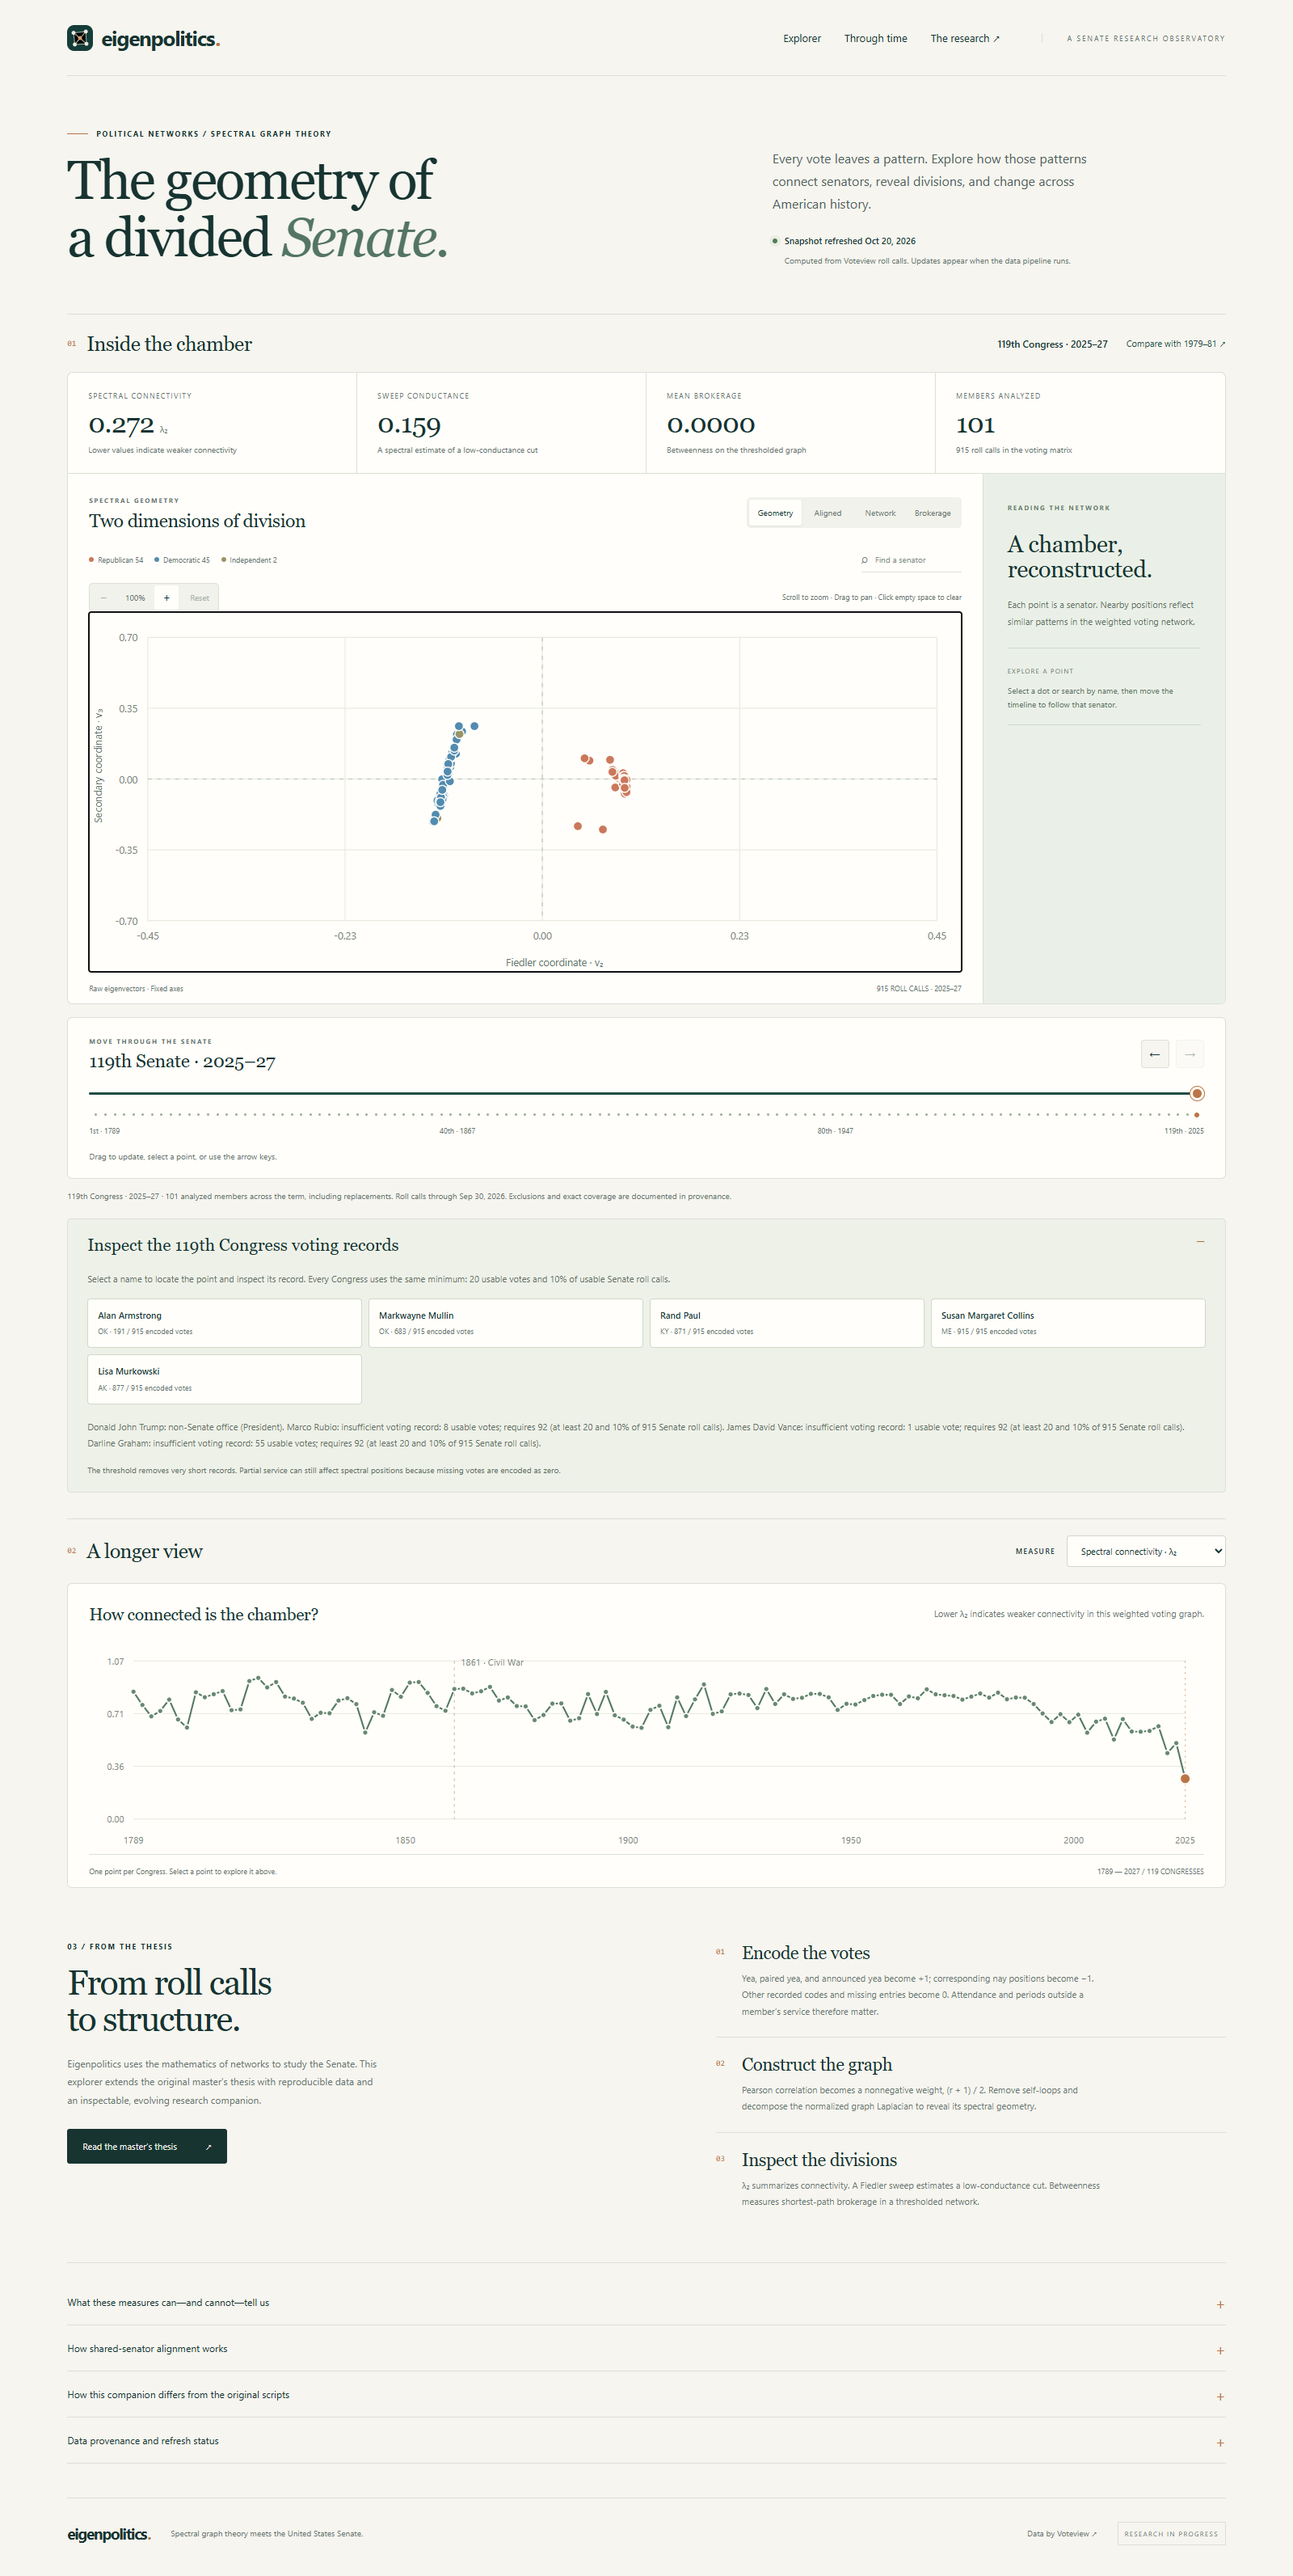
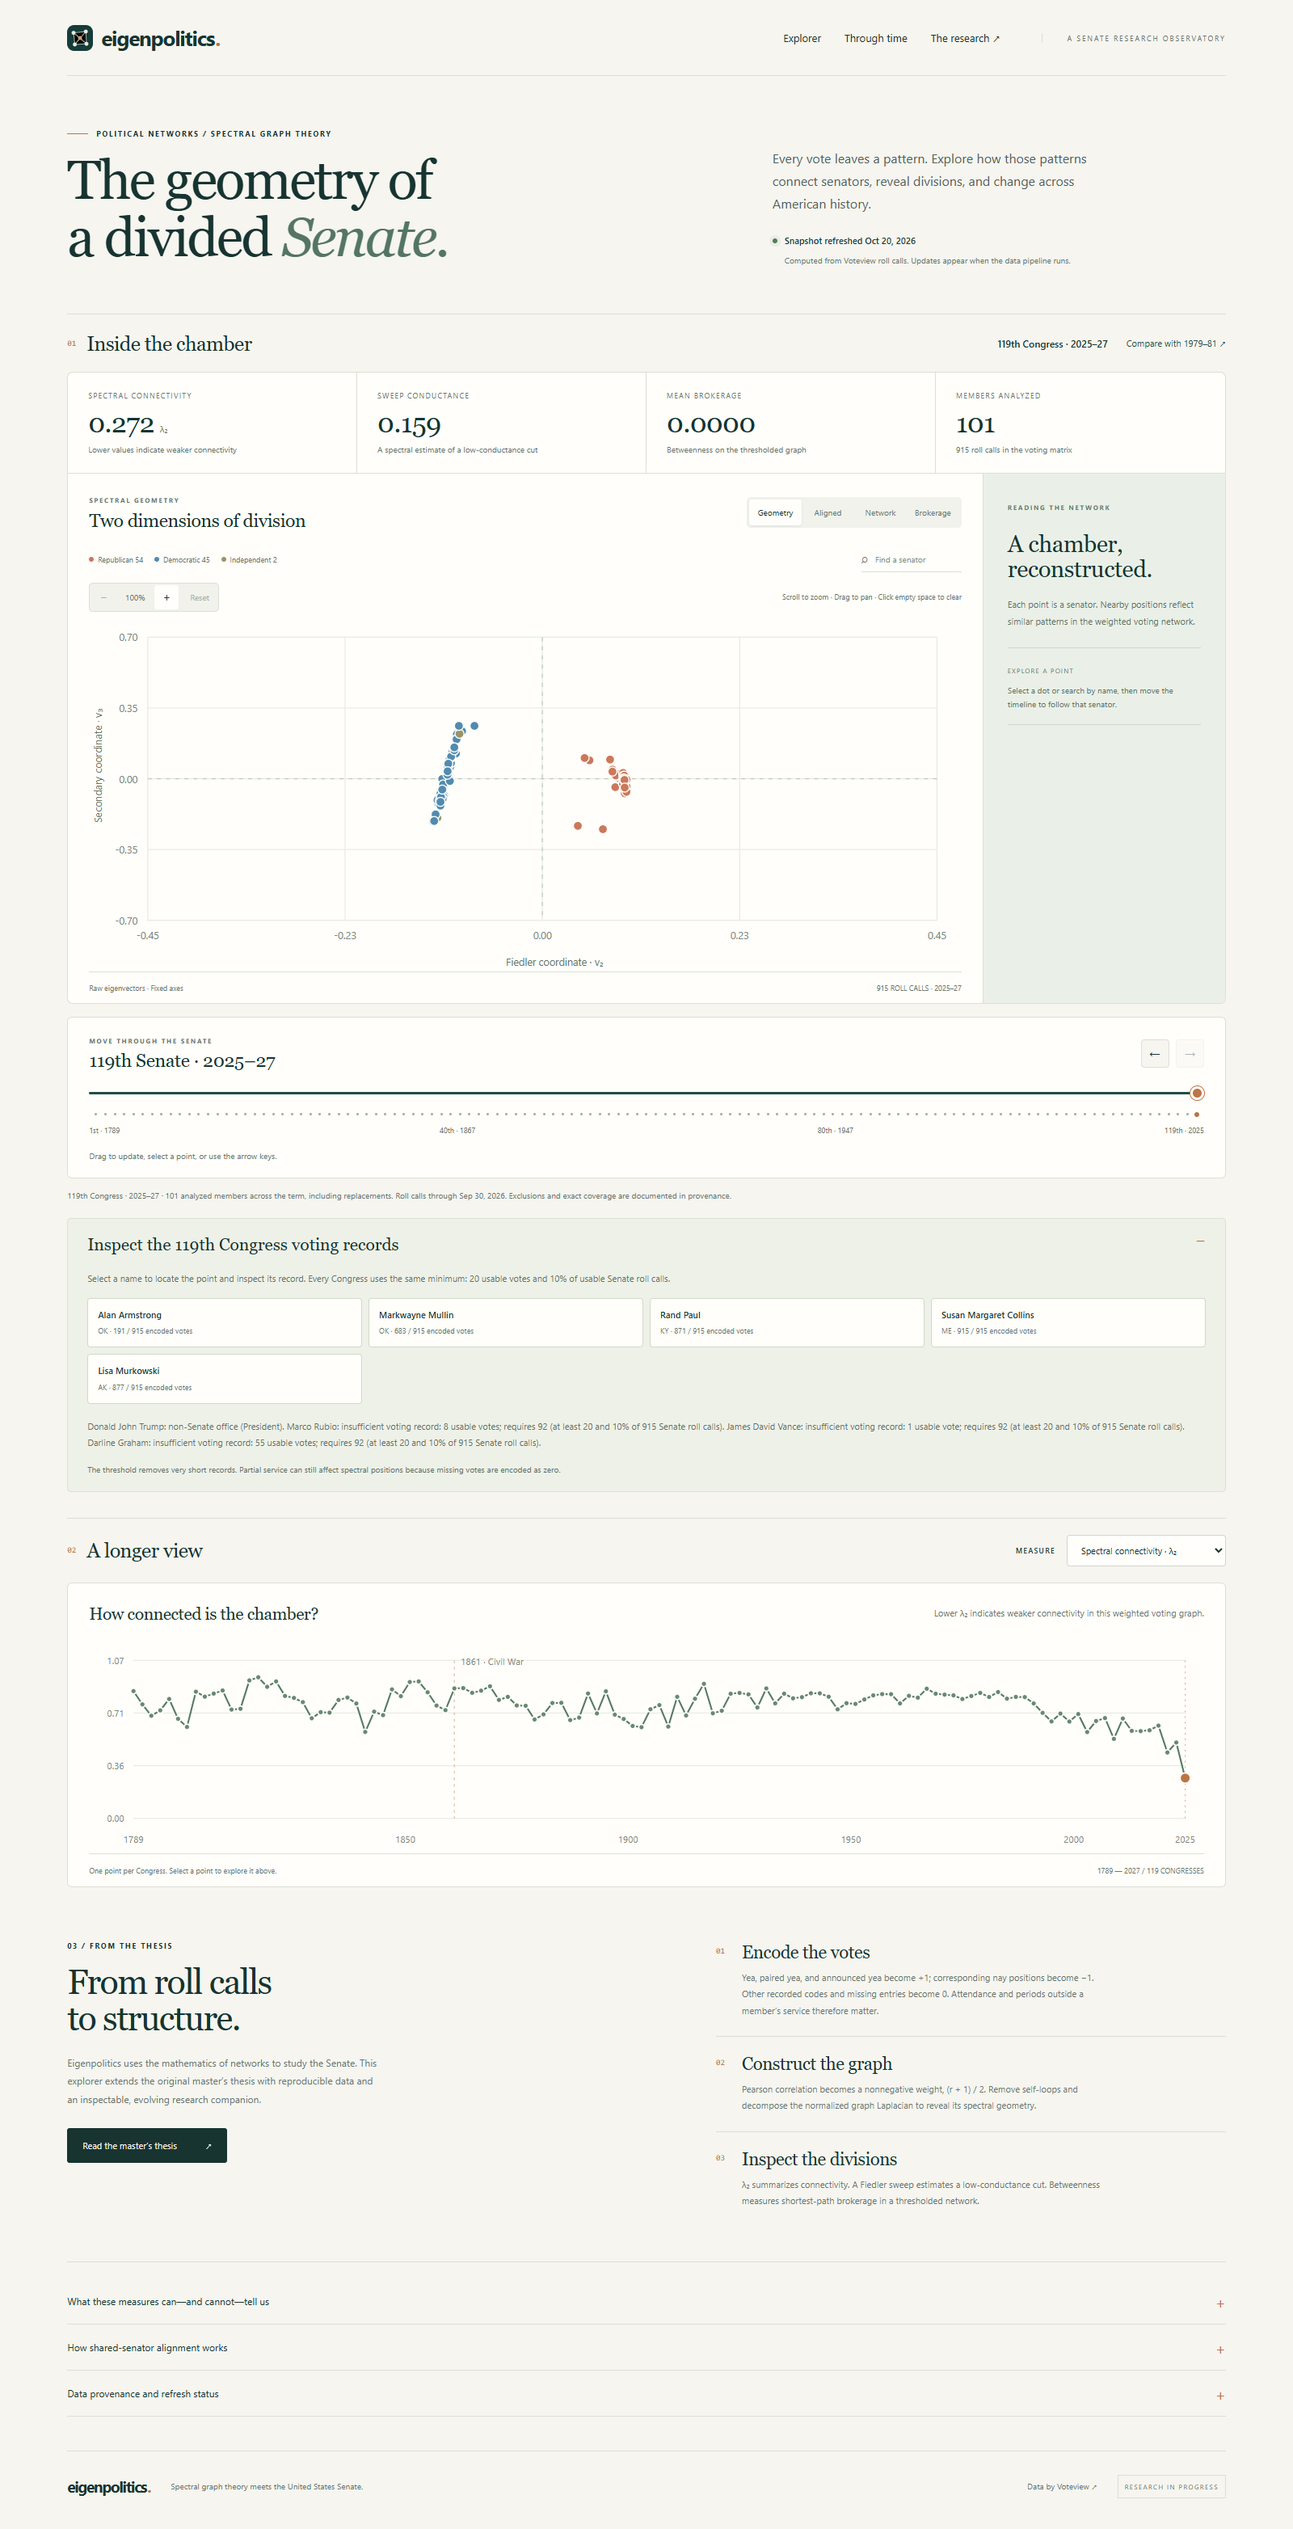
Simplify methodology footer and document hosting options

diff --git a/site/index.html b/site/index.html
@@ -90,7 +90,6 @@
     <section class="methodology-section" aria-label="Methodology and data details">
       <details><summary>What these measures can—and cannot—tell us</summary><div class="details-body"><p>These are descriptive properties of a constructed voting graph. They do not measure a senator’s influence directly, establish causation, or isolate polarization from the agenda and attendance. A Congress is a two-year cohort, so replacement members can appear alongside predecessors.</p><p>Aligned positions describe relative voting-network structure. The fit removes the shared senators’ collective translation and orientation, so it cannot measure a chamber-wide policy shift. Changing agendas, membership, missing votes, and eigenvector stability can still move points. Network ties show transformed correlation, not a percentage of votes in agreement.</p><p>The displayed sweep conductance is the best cut found along a sorted spectral coordinate, an upper-bound estimate of minimum conductance—not an exact Cheeger constant. The Gini coefficient describes the distribution of computed brokerage.</p></div></details>
       <details id="alignment-info"><summary>How shared-senator alignment works</summary><div class="details-body"><div id="alignment-diagnostics"></div><p>The Geometry tab shows the original spectral coordinates and opens by default. The separate Aligned tab fits each two-dimensional spectral embedding to the preceding aligned Congress using senators present in both, starting with the first Congress. Rigid Procrustes alignment allows rotation, reflection, and translation, with no stretching or rescaling. This preserves within-Congress distances, eigenvalues, conductance, and brokerage. Network and Brokerage retain the original coordinates.</p><p>Shared senators are fitted as a group; they are not individually pinned. Their remaining displacement describes movement relative to that group. Selecting a senator keeps them tracked across the timeline. In Aligned, a hollow marker shows their preceding Congress’s position when both records belong to the same alignment segment. Click empty plot space to clear the selection.</p><p>Use the zoom buttons or scroll over the plot to inspect a cluster, then drag to pan. Each view keeps its viewport while you change Congress. Reset restores that view’s fixed global axes; comparison charts always show the global frame. Zoom changes the display only, not the coordinates or analysis.</p><p>At least three shared senators with a full-rank two-dimensional fit are required. A missing Congress or degenerate fit starts a new segment; links are never drawn across that break. Relative residuals above 0.5 are flagged as weak fits. Chaining many Congresses can accumulate alignment uncertainty. The aligned axes mix the two eigenvectors and are not separately the original Fiedler and third-eigenvector axes.</p><p>Method: <a href="https://docs.scipy.org/doc/scipy/reference/generated/scipy.linalg.orthogonal_procrustes.html" target="_blank" rel="noopener">orthogonal Procrustes</a>, applied to centered shared-member coordinates, then translated to the previous frame. It uses only the thesis-derived spectral positions.</p></div></details>
-      <details><summary>How this companion differs from the original scripts</summary><div class="details-body"><p>The original thesis files and scripts are preserved in the repository. This version removes self-loops consistently, assigns edge distances on the graph actually used for betweenness, and avoids zero-length paths. The normalized spectral sweep uses a degree-adjusted coordinate. These corrections can change results relative to the thesis.</p><p>Methodology 1.3.0 adds shared-senator alignment to the displayed spectral coordinates. Eligibility still requires at least 20 usable votes and 10% of the Congress’s usable state-Senate roll calls, rounded up, with the denominator fixed before filtering members. This rule applies to every senator in every Congress and screens very short records without eliminating all missingness effects.</p><p>Current data may also differ from the thesis’s data snapshot. Consult the repository’s methodology and provenance documentation before comparing exact values.</p></div></details>
       <details><summary>Data provenance and refresh status</summary><div class="details-body"><p>Source: <a href="https://voteview.com/data" target="_blank" rel="noopener">Voteview congressional roll-call data</a>. The site reads a locally generated snapshot and checks for a new manifest periodically while open. Collection and computation happen in the Python pipeline, not in the browser.</p><pre id="provenance-output">Loading provenance…</pre><a id="download-congress" href="data/index.json" download>Download selected Congress JSON</a><span class="download-divider">/</span><button class="inline-button" id="download-csv" type="button">Download historical metrics CSV</button></div></details>
     </section>
   </main>

diff --git a/docs/DEPLOYMENT.md b/docs/DEPLOYMENT.md
@@ -6,6 +6,12 @@ For local updates while the computer is awake, install the analysis dependencies
 
 The included Pages workflow is an opt-in path to a hosted research companion. It remains skipped until the repository variable `ENABLE_PAGES` is set to `true`.
 
+## Recommended first deployment
+
+Use GitHub Pages for the public thesis site. The explorer is a static site: visitors' browsers draw the charts from published JSON, while a separate Python job refreshes that JSON. GitHub can host the files and run the existing daily refresh workflow, so neither an always-on home computer nor a purchased domain is necessary.
+
+An NVIDIA Jetson Orin Nano Super can also serve the site or run the refresh pipeline. That is useful for learning self-hosting, but entails maintaining the device, web server, and public connection. The current analysis uses CPU-based NumPy, pandas, SciPy, and NetworkX; its GPU is not used.
+
 ## A public address without buying a domain
 
 GitHub Pages serves static HTML, CSS, JavaScript, and JSON. A project site normally receives `https://<owner>.github.io/<repository>/`; a custom domain is optional. Public repositories can use Pages with GitHub Free. See [GitHub's description of Pages and default addresses](https://docs.github.com/en/pages/getting-started-with-github-pages/what-is-github-pages).
@@ -46,7 +52,21 @@ If download, analysis, tests, or deployment fails, the workflow fails and the pr
 - Disable the workflow in GitHub Actions to stop it entirely.
 - Use GitHub Pages settings to unpublish the site when desired.
 
-GitHub may delay scheduled runs and disables scheduled workflows in public repositories after prolonged inactivity. Review [GitHub's schedule event documentation](https://docs.github.com/en/actions/reference/workflows-and-actions/events-that-trigger-workflows#schedule) when deciding whether this cadence meets your needs.
+GitHub may delay scheduled runs and disables scheduled workflows in public repositories after 60 days without repository activity. The last deployed site remains online, but its data stops refreshing until updates resume. Review [GitHub's schedule event documentation](https://docs.github.com/en/actions/reference/workflows-and-actions/events-that-trigger-workflows#schedule) when deciding whether this cadence meets your needs.
+
+## Using an always-on Jetson
+
+This is an optional setup outline, not an installed configuration. The device has not been accessed or tested.
+
+1. Clone or copy the repository onto the Jetson. For data refreshes, create a Python virtual environment and install `requirements.txt`. The package requires Python 3.10 or newer; the documented development setup and GitHub workflow use 3.11 or newer. Check the device's Python version and ARM dependency installation before relying on unattended updates.
+2. Configure a static web server such as [Caddy](https://caddyserver.com/docs/quick-starts/static-files) to serve only the repository's `site/` directory, listening on localhost. Use a system service to start it after reboot. The bundled `scripts/serve.py` remains the local development preview.
+3. Configure a systemd timer to run `scripts/refresh_data.py --congress current --refresh` periodically from the repository with its virtual environment. The script also recalculates the alignment chain. Include the preceding Congress around a term change to capture its final published votes. Hosting alone does not refresh the data.
+4. For a public address without buying a domain, configure [Tailscale Funnel](https://tailscale.com/docs/features/tailscale-funnel) to forward HTTPS requests to that local web server. It provides a device address such as `https://jetson.<tailnet>.ts.net`; visitors do not need Tailscale. It avoids router port forwarding and a public home IP. Enable the required Tailscale account, DNS, certificate, and Funnel settings, and configure persistent background operation as described in the [Funnel CLI documentation](https://tailscale.com/docs/reference/tailscale-cli/funnel).
+5. Verify the site from outside the home network, test recovery after a reboot, and check the refresh logs and displayed snapshot date.
+
+Funnel is available on all Tailscale plans, but is currently beta and has non-configurable bandwidth limits. A Jetson-hosted site depends on the device, home power, and home internet connection remaining available. For a public thesis link, GitHub Pages avoids those home-server dependencies.
+
+The Jetson can alternatively run data refreshes while GitHub Pages hosts the resulting files. That hybrid setup needs a separate, authenticated deployment job; it is not required by the existing GitHub-hosted workflow.
 
 ## Other static hosts
 
